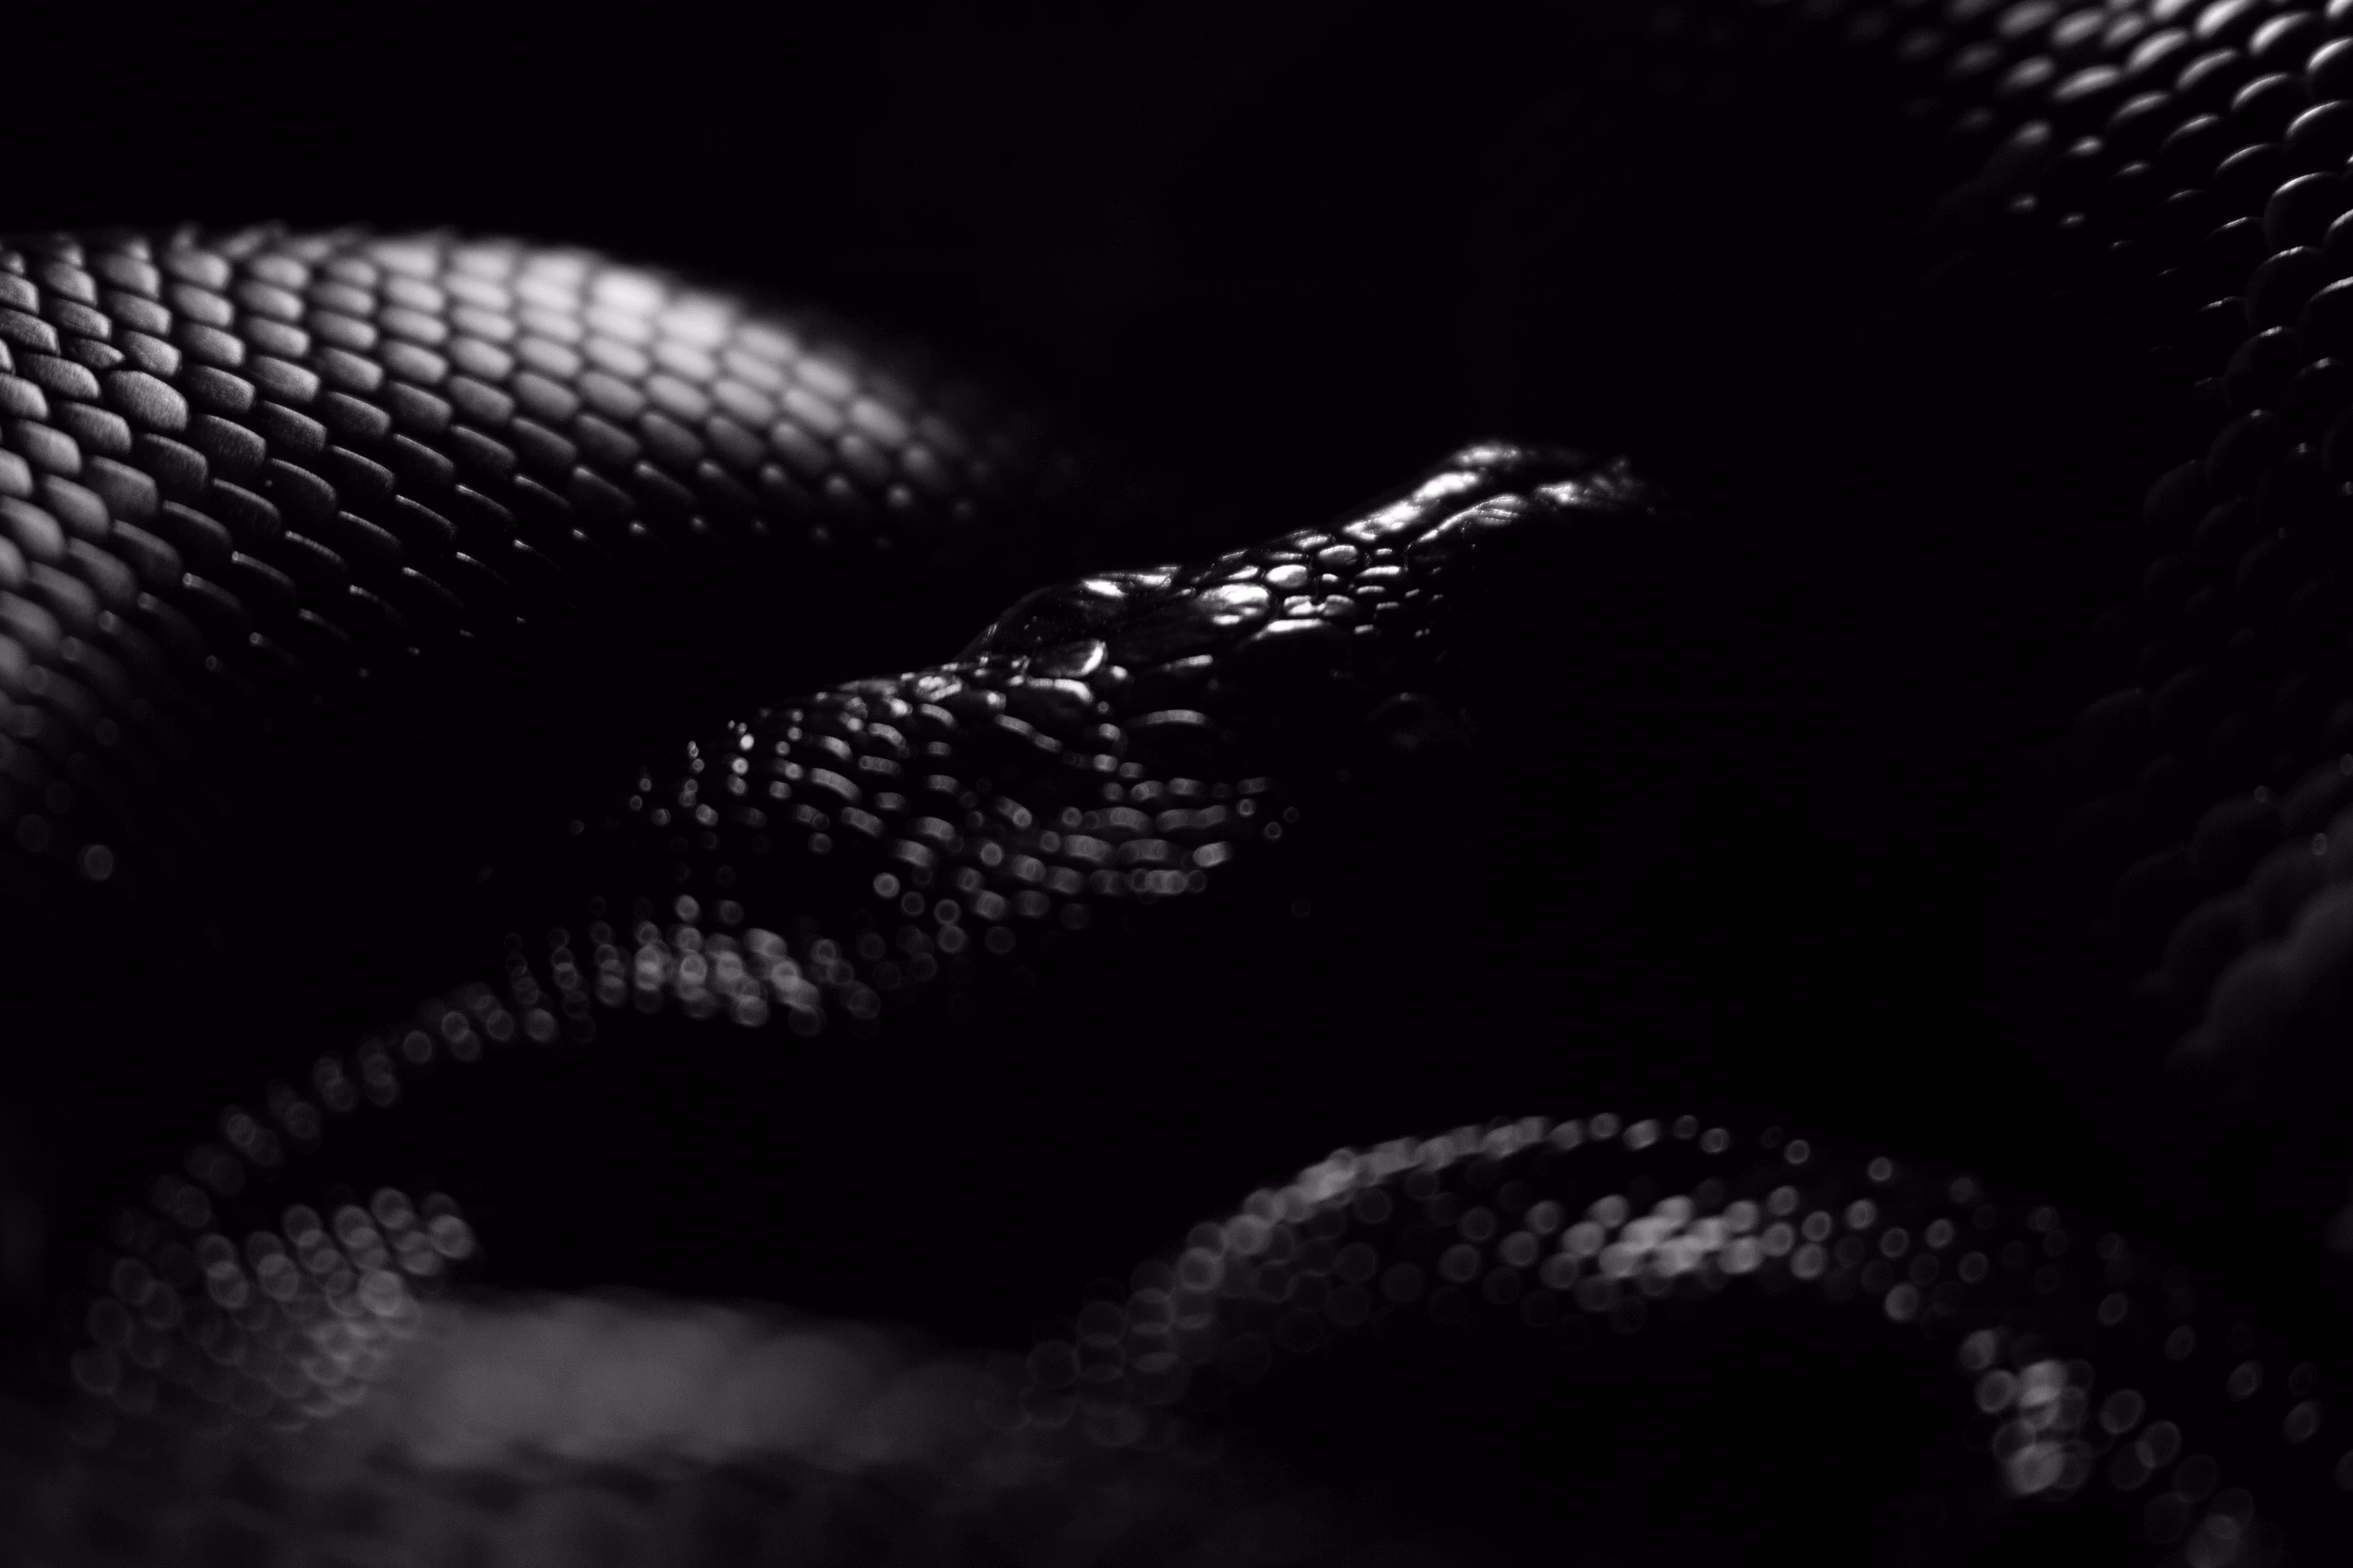
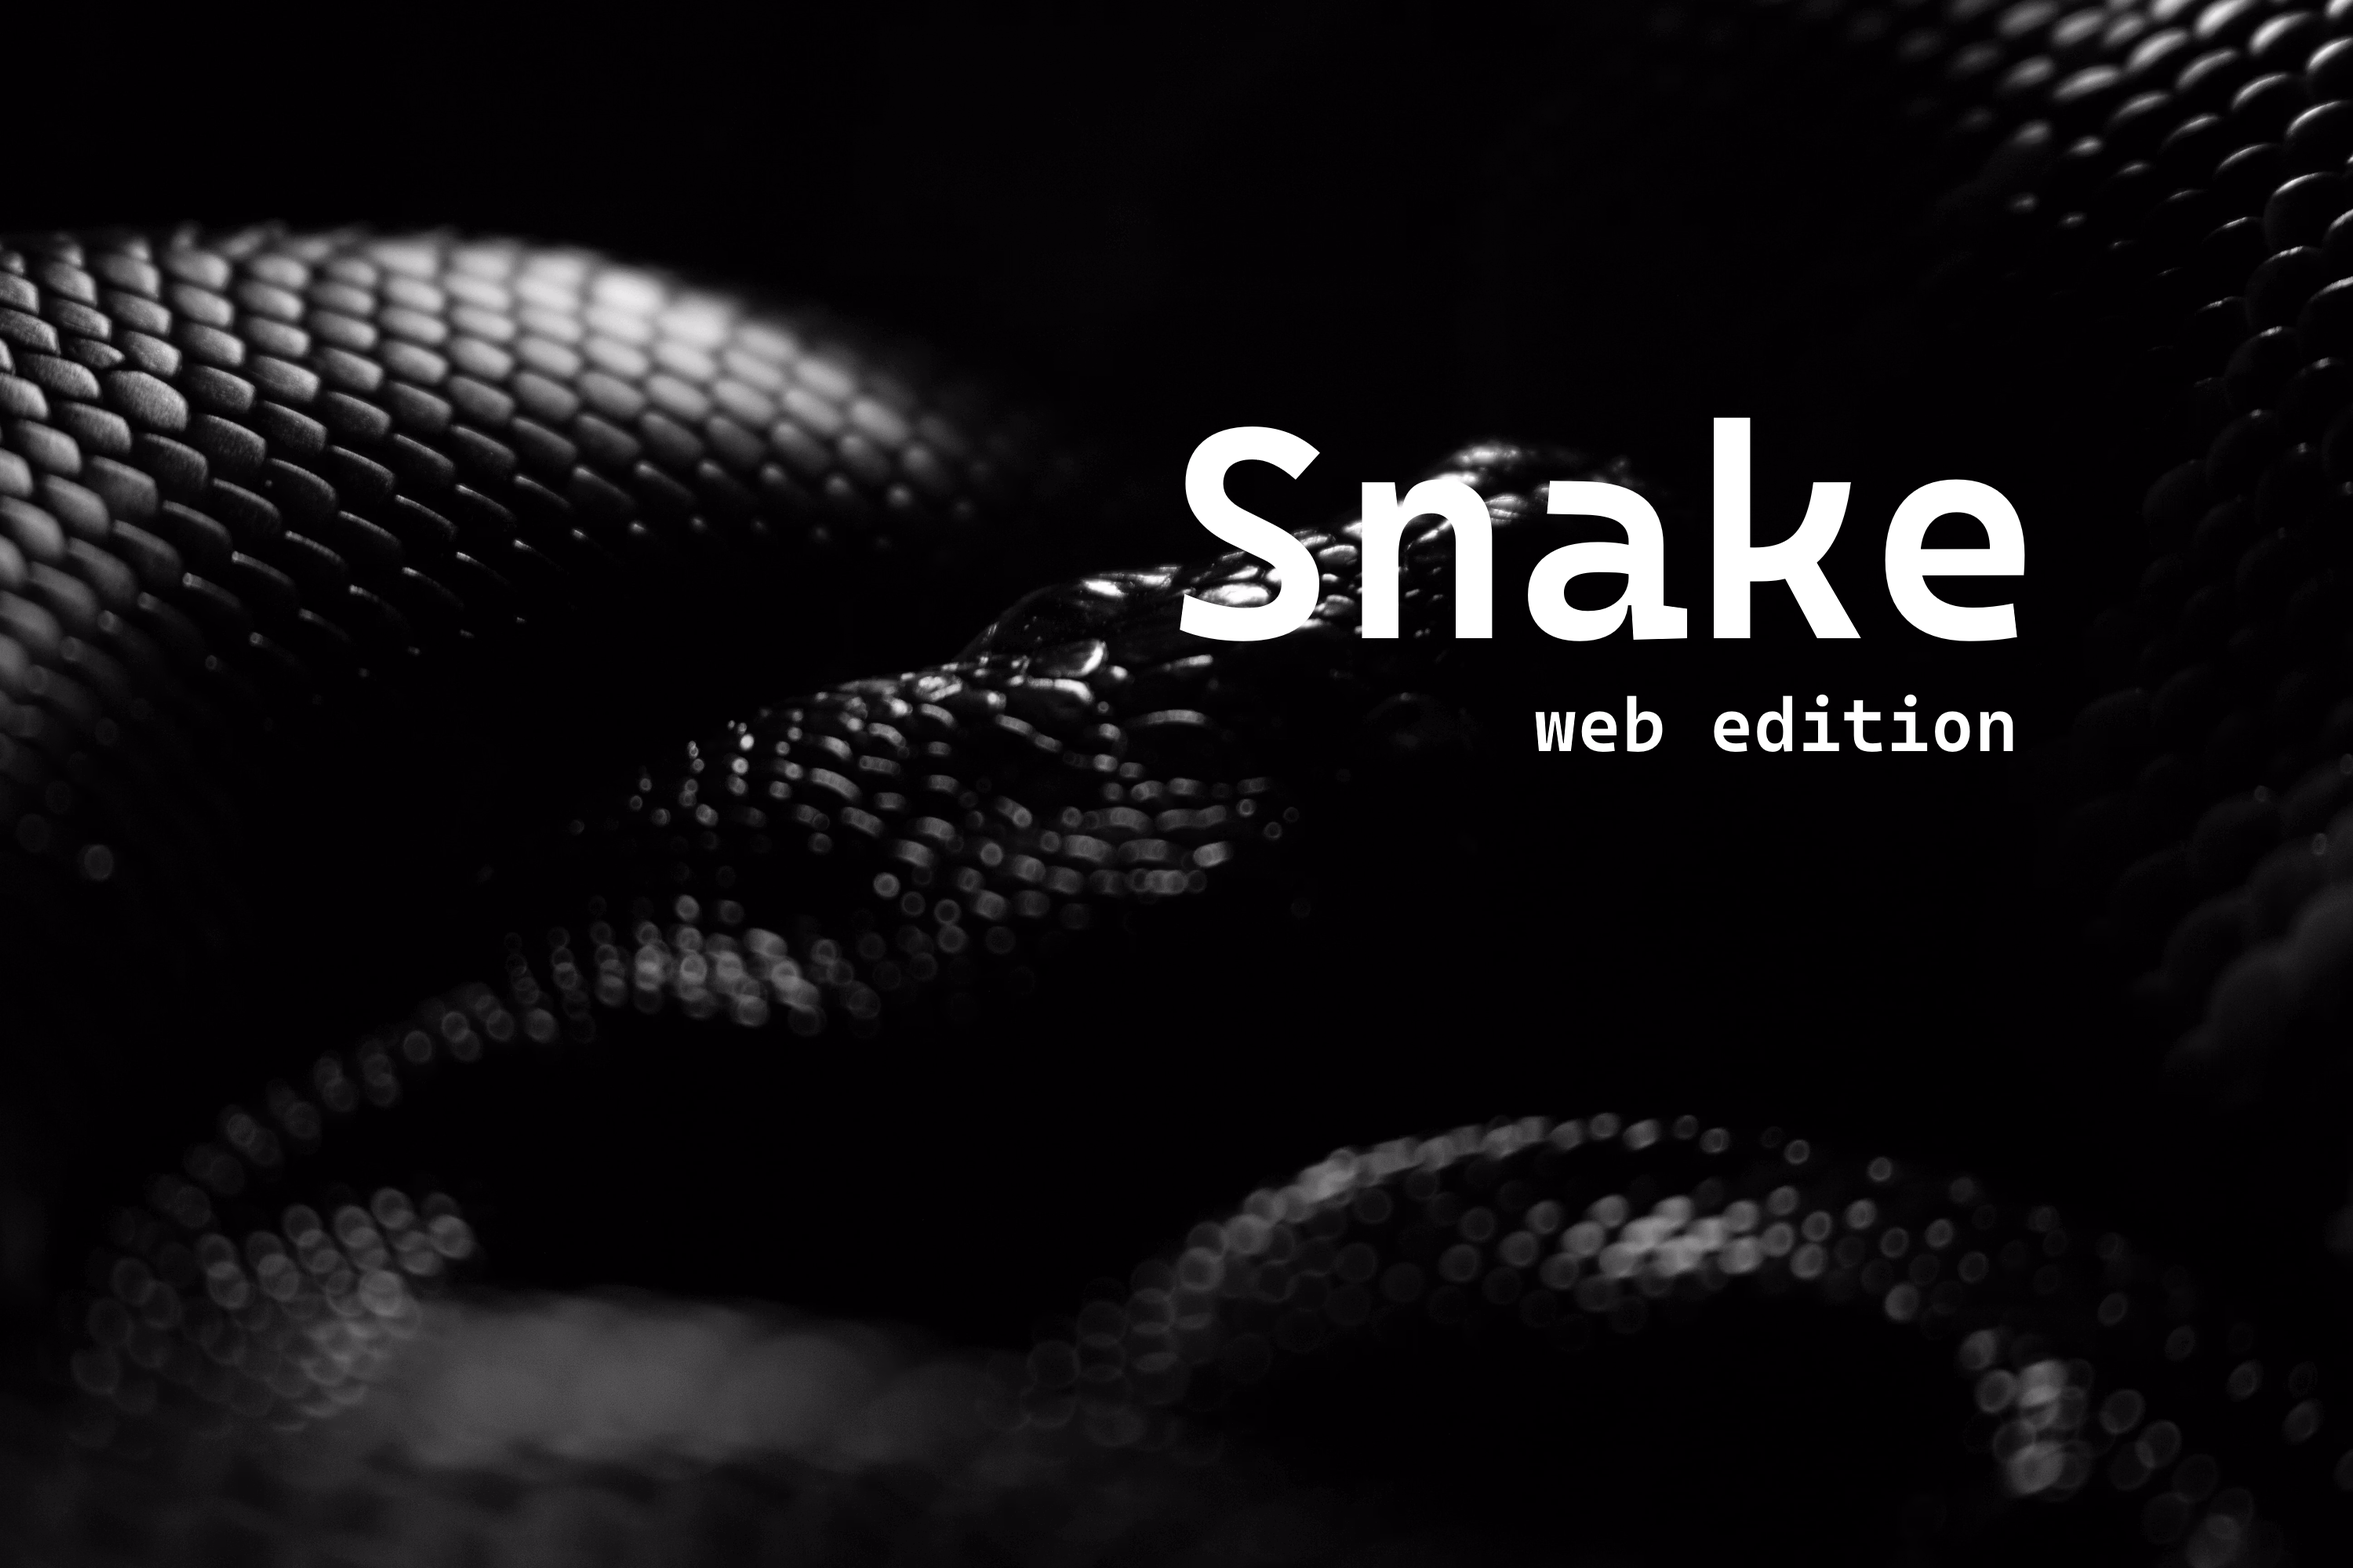
2.2.00

Changed region(s): [[0.496, 0.248, 0.868, 0.496]]

diff --git a/index.html b/index.html
@@ -3,7 +3,7 @@
 <head>
 <meta charset="UTF-8">
 <meta name="viewport" content="width=device-width, height=device-height, initial-scale=1.0, viewport-fit=cover">
-<title>Snake 2.1.10</title>
+<title>Snake 2.2.00</title>
 <link rel="stylesheet" href="style.css">
 </head>
 <body>
@@ -19,7 +19,7 @@
     <button id="quitBtn">Quit (alt+f4)</button>
 </div>
 
-<div id="versionText">Snake 2.1.10 -- © Rubinica Studios 2026</div>
+<div id="versionText">Snake 2.2.00 -- © Rubinica Studios 2026</div>
 
 <!-- SETTINGS MENU -->
 <div id="settingsOverlay">
@@ -64,9 +64,9 @@
 
         <div class="settingsPanel" data-panel="releaseInfo" style="display:none">
             <div id="releaseInfo">
-                <div class="releaseVersion">Snake 2.1.10</div>
-                <div class="releaseMeta">Release date: 2026-05-06-15:55.
-                     Added: nothing. Fixed: Mute button tweaks. Removed: nothing.</div>
+                <div class="releaseVersion">Snake 2.2.00</div>
+                <div class="releaseMeta">Release date: 2026-05-06-19:29.
+                     Added: nothing. Fixed: Tweaked game files. Removed: nothing.</div>
             </div>
         </div>
     </div>

diff --git a/style.css b/style.css
@@ -12,7 +12,7 @@
 
 html,
 body{
-    font-family: var(--snake-font-family, Arial, sans-serif);
+    font-family: var(--snake-font-family, "fonts/font_2.ttf");
 }
 
 body{
@@ -398,11 +398,11 @@ button{
 }
 
 body {
-    cursor: url('cursor.png'), auto;
+    cursor: url('assets/cursor.png'), auto;
 }
 
 * {
-    cursor: url('cursor.png'), auto !important;
+    cursor: url('assets/cursor.png'), auto !important;
 }
 
 #mobileControls {
